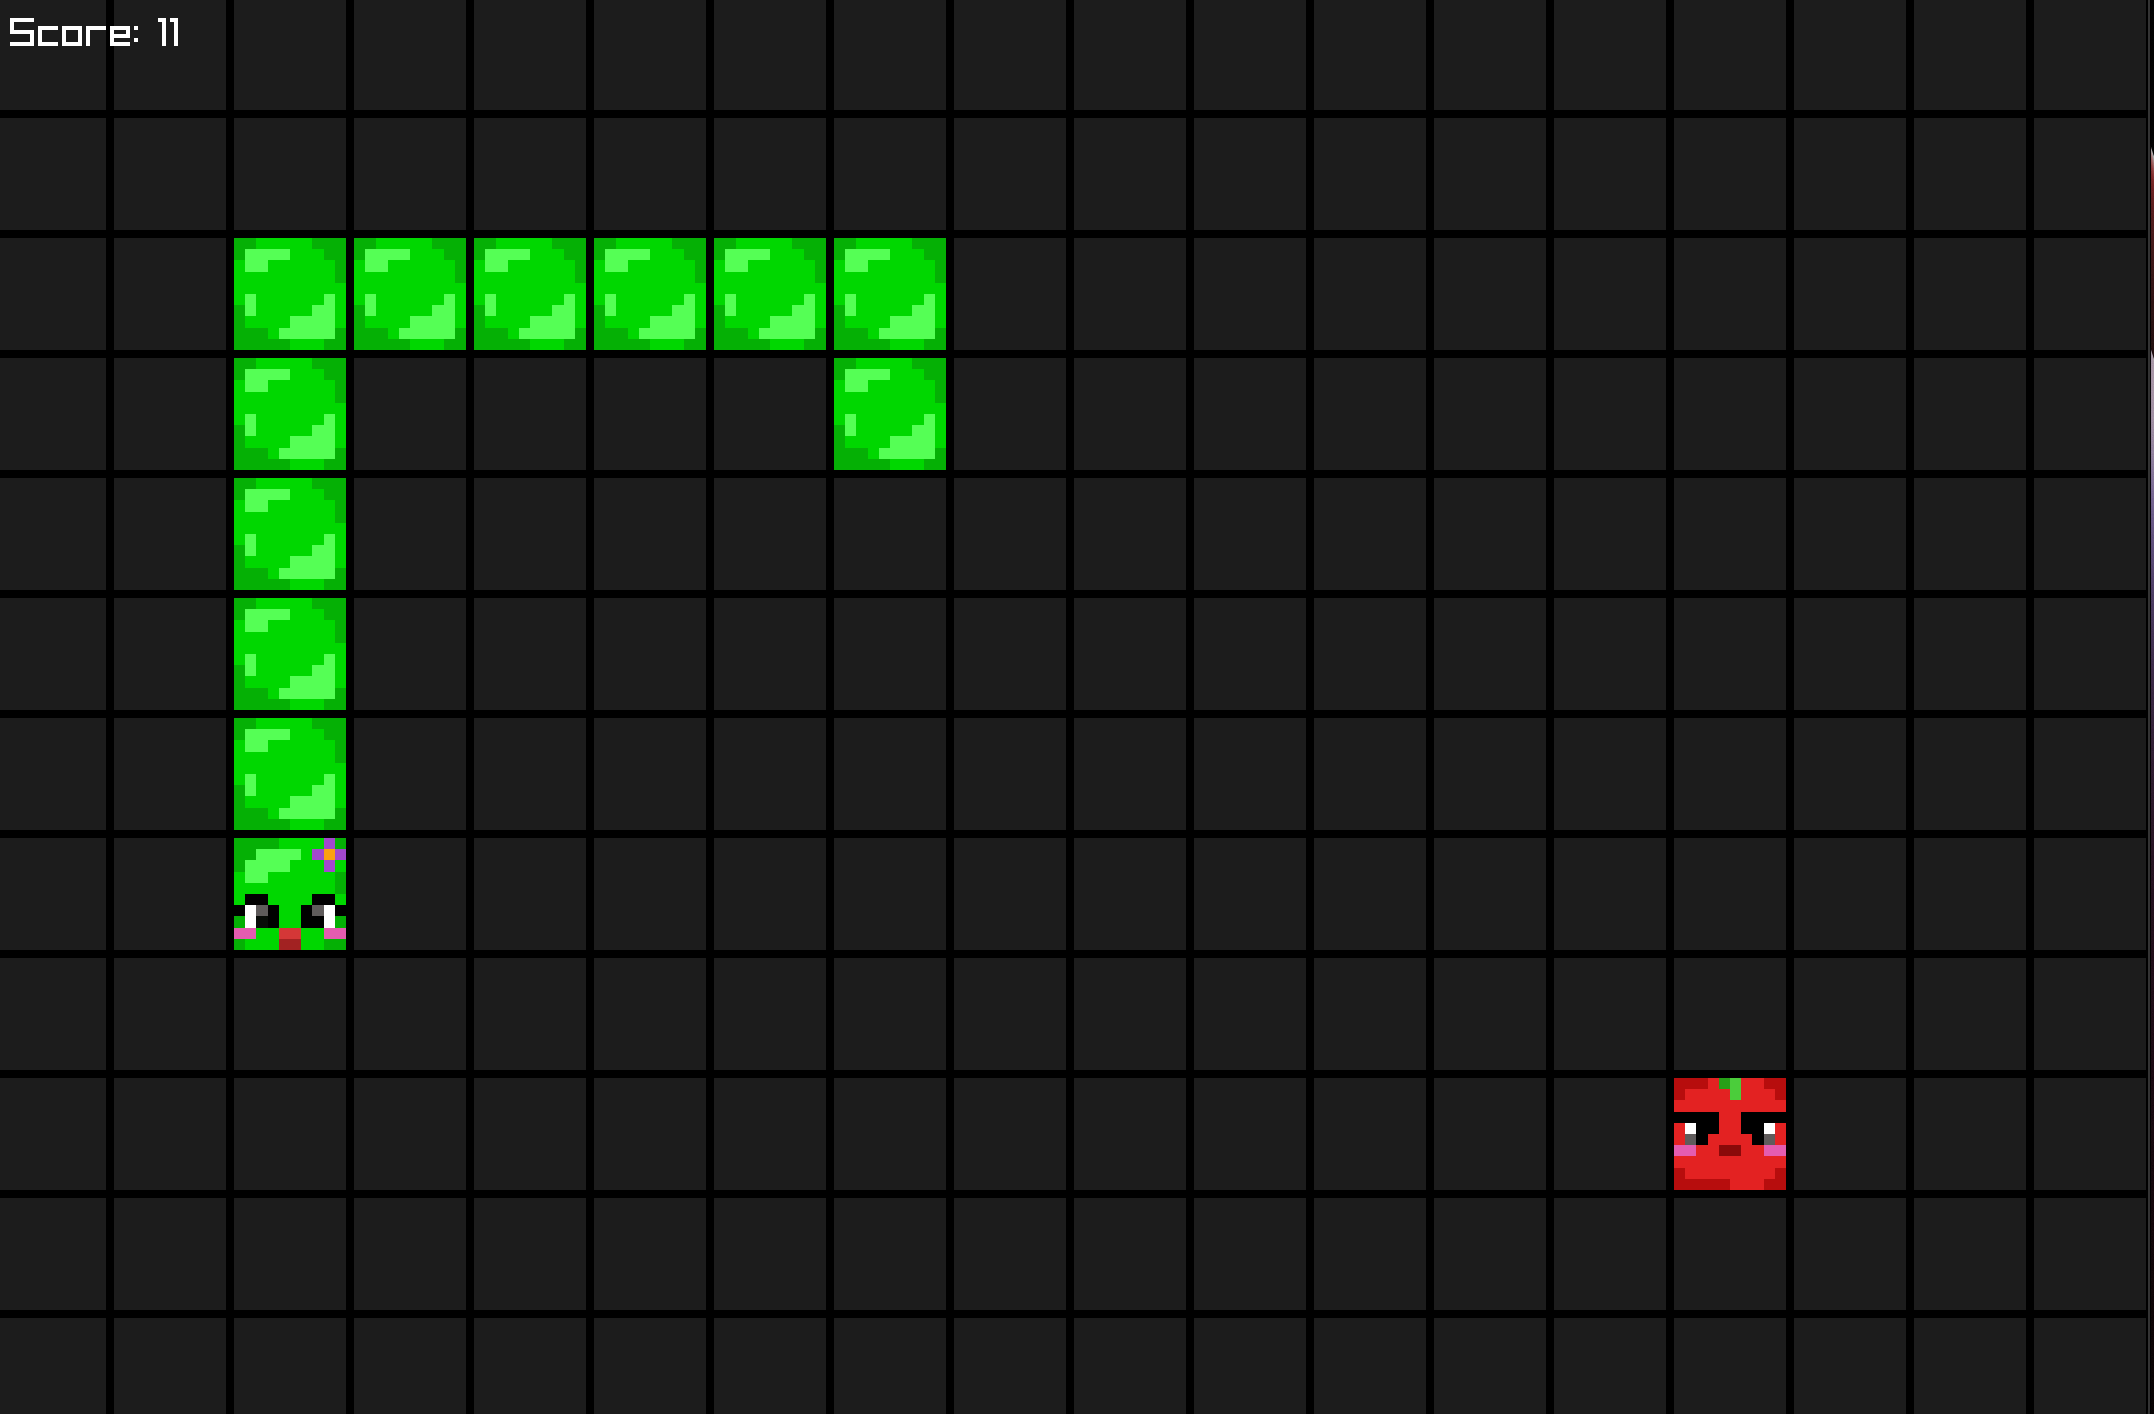
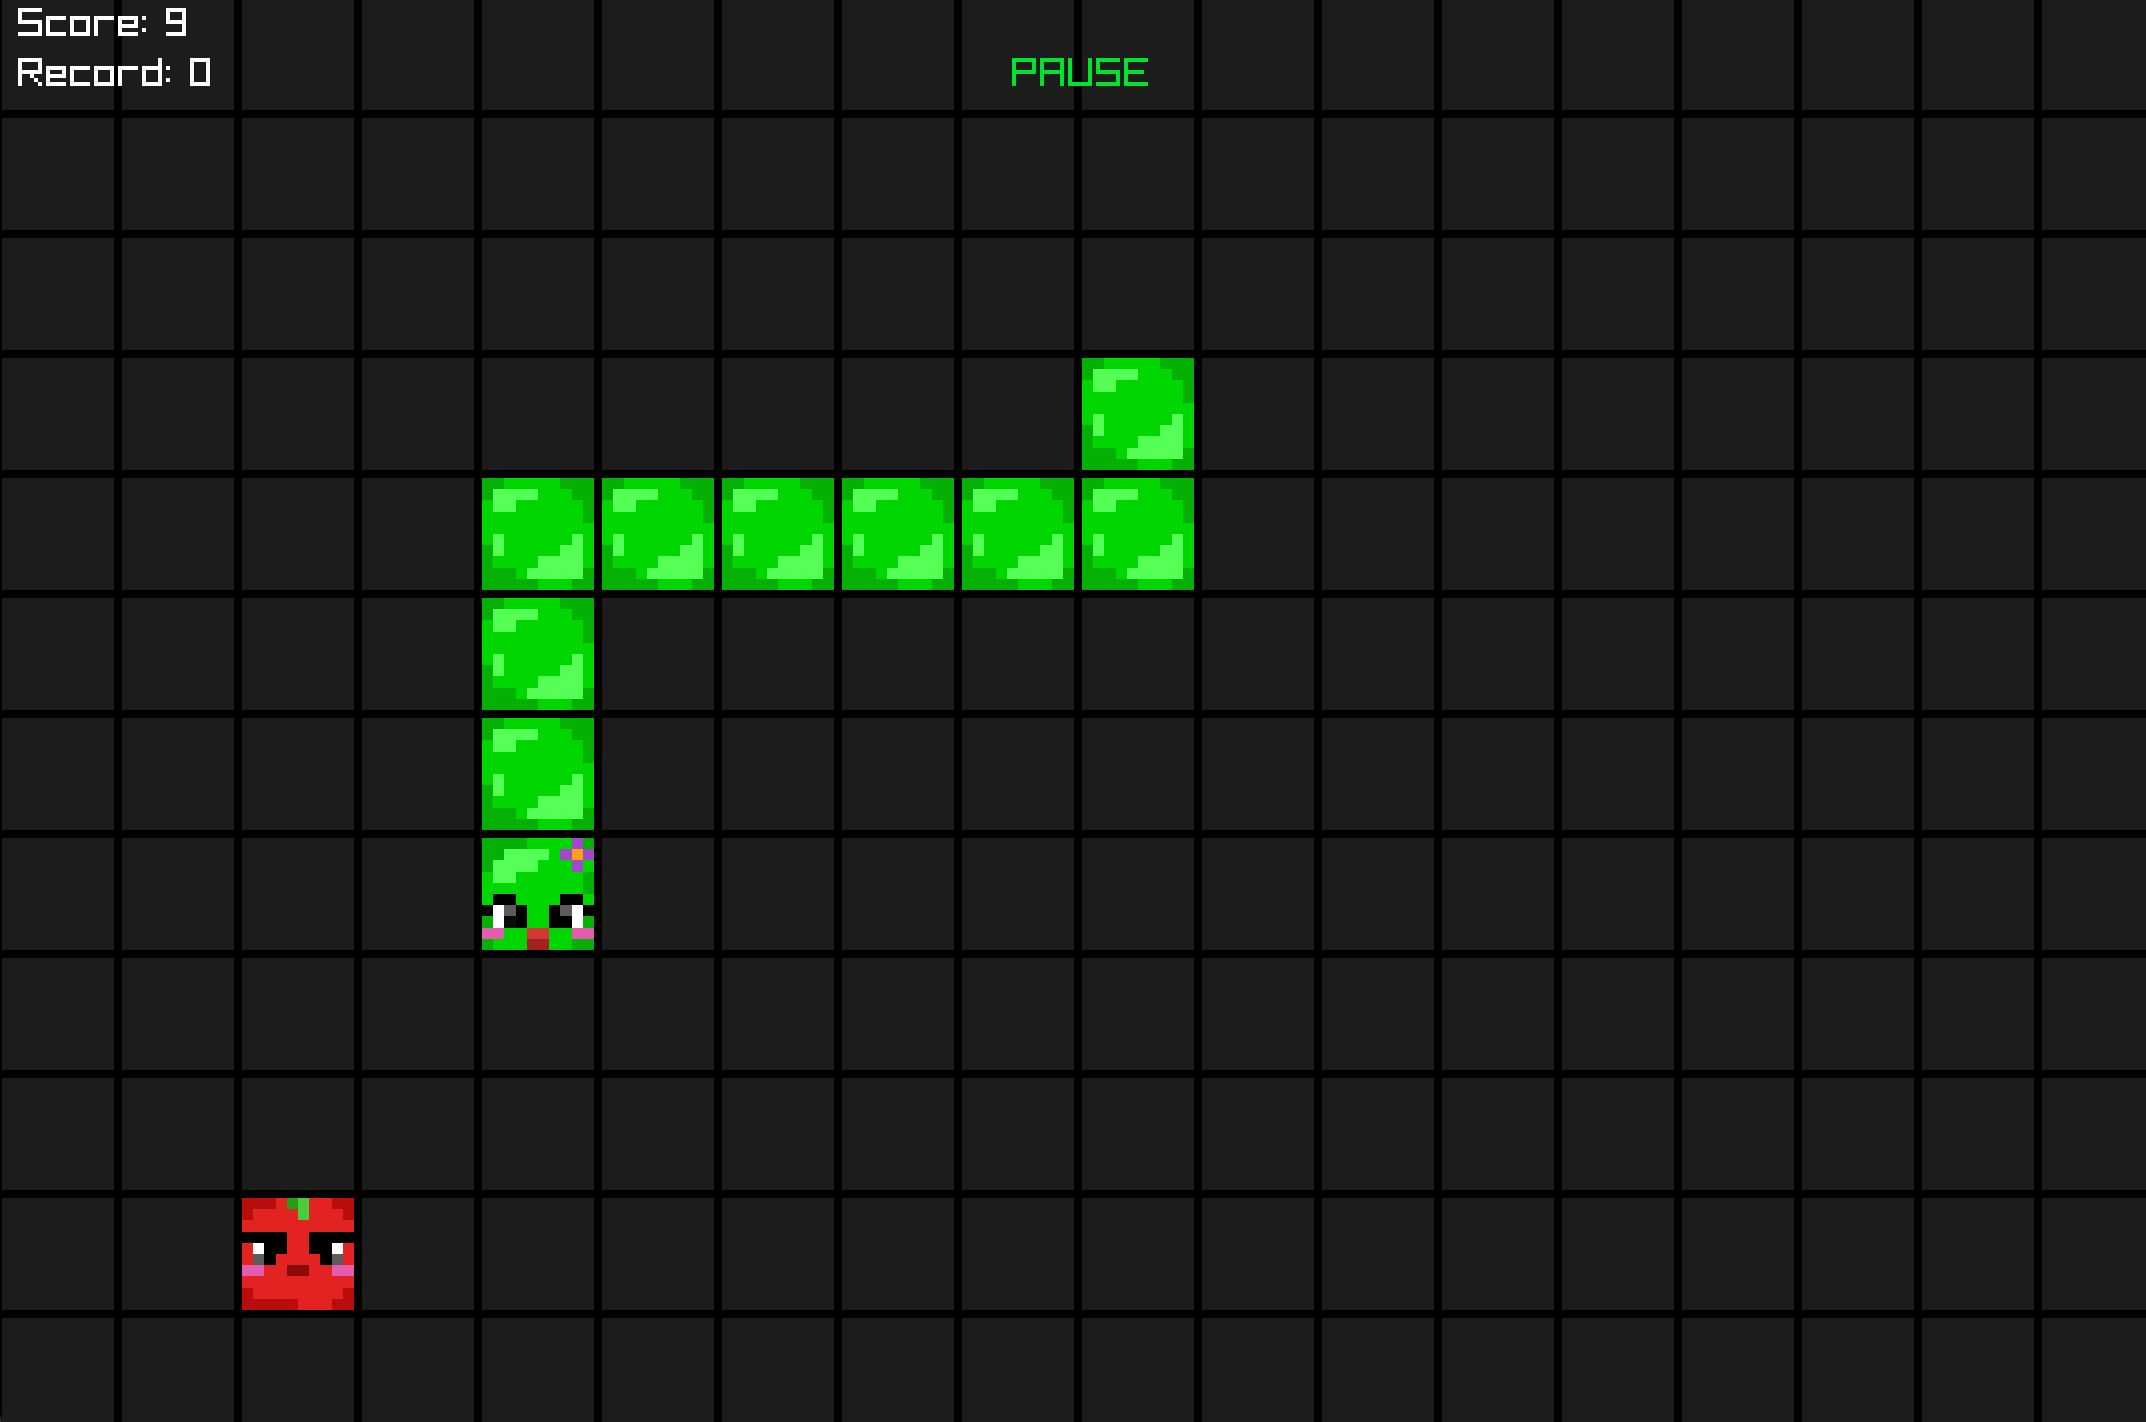
added record tracking

Changed region(s): [[0.0, 0.0, 1.0, 1.0], [0.9991, 0.0, 1.0, 0.2178], [0.9991, 0.9335, 1.0, 1.0]]

diff --git a/snake.c b/snake.c
@@ -36,6 +36,8 @@ int apple;
 int pause = 0;
 int auto_snake = 0;
 int score = 0;
+int record = 0;
+int flag = 0;
 
 enum CellType board[BOARD_WIDTH * BOARD_HEIGHT] = {0};
 struct Snake snake;
@@ -155,6 +157,10 @@ void snake_step(void){
         score++;
     }
     else if (check_collision(row, col)){
+        if (score > record){
+            record = score;
+            flag = 1;
+        }
         state = END;
     }
     else{
@@ -168,6 +174,7 @@ void snake_step(void){
 }
 
 void init(void){
+    flag = 0;
     srand(time(NULL));
     score = 0;
     generate_snake();
@@ -210,8 +217,14 @@ void update(void){
 }
 
 void render_game_over(void){
-    DrawText("GAME OVER", WIDTH / 2 - 150, HEIGHT / 2 - 25, 50, GetColor(0xffffffff));
-    DrawText("Press R to Restart", WIDTH / 2 - 250, HEIGHT / 2 + 25, 50, GetColor(0xffffffff));
+    DrawText("GAME OVER!", WIDTH / 2 - 223, HEIGHT / 2 - 120, 70, GetColor(0xffffffff));
+    DrawText("Press R to Restart", WIDTH / 2 - 253, HEIGHT / 2 - 50, 50, GetColor(0xffffffff));
+    if (flag){
+        DrawText("NEW RECORD!", WIDTH / 2 - 173, HEIGHT / 2 + 25, 50, GetColor(0xff5f00ff));
+        char buff[32];
+        sprintf(buff, "Record: %d", record);
+        DrawText(buff, 10, 30, 20, GetColor(0xffffffff));
+    }
 }
 
 void draw_head(void){
@@ -283,14 +296,18 @@ void render(void){
     draw_body();
     draw_apple();
     if (state == END){
-        render_game_over();
         draw_head();
+        render_game_over();
     }
     char buff[32];
     sprintf(buff, "Score: %d", score);
-    DrawText(buff, 10, 10, 20, GetColor(0xffffffff));
+    DrawText(buff, 10, 5, 20, GetColor(0xffffffff));
+    sprintf(buff, "Record: %d", record);
+    DrawText(buff, 10, 30, 20, GetColor(0xffffffff));
     if (auto_snake)
-        DrawText("AUTO", 10, 35, 20, GREEN);
+        DrawText("AUTO", 512, 5, 20, GREEN);
+    if (pause)
+        DrawText("PAUSE", 507, 30, 20, GREEN);   
     EndDrawing();
 }
 

diff --git a/README.md b/README.md
@@ -1,79 +1,96 @@
-# 🐍 Snake Game (C + Raylib)
+# Snake Game (C + Raylib)
 
-Простая, красочная и быстрая реализация классической игры **Snake** с графическим интерфейсом на **C** с использованием **[Raylib](https://www.raylib.com/)**. Игра поддерживает текстуры, автопилот (по циклу Гамильтона), паузу, управление клавишами и стартовый экран с инструкциями.
+В этом репозитории представлена простая, красочная и быстрая реализация классической игры **Snake** с графическим интерфейсом на **C** с использованием **[Raylib](https://www.raylib.com/)**. Игра поддерживает текстуры, паузу, ручное управление клавишами, стартовый экран с инструкциями и автоматический режим, использующий гамильтонов цикл.
 
-## 📚 Содержание
+## Содержание
 
-- [🐍 Snake Game (C + Raylib)](#-snake-game-c--raylib)
-  - [📚 Содержание](#-содержание)
-  - [📸 Скриншоты](#-скриншоты)
-    - [🖥 Стартовый экран с инструкцией](#-стартовый-экран-с-инструкцией)
-    - [🎮 Ручное управление](#-ручное-управление)
-    - [🤖 Автопилот по циклу Гамильтона](#-автопилот-по-циклу-гамильтона)
-    - [💀 Экран окончания игры](#-экран-окончания-игры)
-  - [🚀 Запуск](#-запуск)
-    - [✅ Зависимости](#-зависимости)
-    - [🔧 Сборка](#-сборка)
-    - [▶ Запуск](#-запуск)
-  - [🎮 Управление](#-управление)
-  - [🧠 Автопилот](#-автопилот)
-  - [🐍 Структура проекта](#-структура-проекта)
-  - [📦 Дополнительно](#-дополнительно)
-  - [🛠 TODO](#-todo)
-  - [🧑💻 Автор](#-автор)
-  
-## 📸 Скриншоты
-### 🖥 Стартовый экран с инструкцией
+- [Snake Game (C + Raylib)](#snake-game-c--raylib)
+  - [Содержание](#содержание)
+  - [Особенности](#особенности)
+  - [Скриншоты](#скриншоты)
+    - [Стартовый экран с инструкцией](#стартовый-экран-с-инструкцией)
+    - [Ручное управление](#ручное-управление)
+    - [Автопилот по циклу Гамильтона](#автопилот-по-циклу-гамильтона)
+    - [Экран окончания игры при достижении нового рекорда](#экран-окончания-игры-при-достижении-нового-рекорда)
+  - [Запуск](#запуск)
+    - [Зависимости](#зависимости)
+    - [Установка Raylib для Linux](#установка-raylib-для-linux)
+    - [Сборка](#сборка)
+    - [Запуск](#запуск-1)
+  - [Управление](#управление)
+  - [Автопилот](#автопилот)
+  - [Структура проекта](#структура-проекта)
+  - [Планы на будущее](#планы-на-будущее)
+  - [Автор](#автор)
+
+## Особенности
+- Графический интерфейс с текстурами
+- Управление клавишами **WASD** или **стрелками**
+- Автоматический режим движения змейки (`B`)
+- Пауза (`SPACE`)
+- Перезапуск (`R`)
+- Подсчёт очков и отображение **рекорда**
+- Надпись `NEW RECORD!` при достижении нового рекорда
+- Гамильтонов цикл для обхода поля в автоматическом режиме
+## Скриншоты
+### Стартовый экран с инструкцией
 ![screenshot](./screenshots/gameplay1.png)
-### 🎮 Ручное управление
+### Ручное управление
 ![screenshot](./screenshots/gameplay2.png)
-### 🤖 Автопилот по циклу Гамильтона
+### Автопилот по циклу Гамильтона
 ![screenshot](./screenshots/gameplay3.png)
-### 💀 Экран окончания игры
+### Экран окончания игры при достижении нового рекорда
 ![screenshot](./screenshots/gameplay4.png)
 
-## 🚀 Запуск
+## Запуск
 
-### ✅ Зависимости
+### Зависимости
 
 - [Raylib](https://github.com/raysan5/raylib)
 - GCC или Clang (например, `gcc`, `clang`)
 - macOS / Linux (текущая сборка настроена под macOS)
+###  Установка Raylib для Linux
 
-### 🔧 Сборка
+```bash
+sudo apt install libraylib-dev
+```
+Или, если Raylib не установлен глобально, можно использовать raylib как статическую библиотеку.
+### Сборка
 
-Создай исполняемый файл с помощью:
+Необходимо создать исполняемый файл с помощью:
 
 ```bash
 make
 ```
-Если make не установлен, можно собрать вручную:
+Если make не установлен, то можно собрать вручную:
 ```bash
 gcc snake.c -o snake \
   -lraylib -L. -lglfw3 \
   -framework Cocoa -framework IOKit -framework OpenGL
 ```
-### ▶ Запуск
+### Запуск
 ```bash
 ./snake
 ```
 
-## 🎮 Управление
+## Управление
 
-| Клавиша           | Действие                          |
-|-------------------|-----------------------------------|
-| `W A S D`         | Движение                          |
-| `← ↑ → ↓`         | Движение                          |
-| `SPACE`           | Пауза                             |
-| `R`               | Рестарт                           |
-| `B`               | Автопилот (вкл/выкл)              |
-| `ENTER`           | Начать игру со стартового экрана |
+| Клавиша     | Действие                          |
+|-------------|-----------------------------------|
+| `W` / `↑`   | Движение вверх                    |
+| `S` / `↓`   | Движение вниз                     |
+| `A` / `←`   | Движение влево                    |
+| `D` / `→`   | Движение вправо                   |
+| `SPACE`     | Пауза / продолжить                |
+| `R`         | Перезапуск игры                   |
+| `B`         | Включить / выключить автопилот    |
+| `ESC`       | Выход из игры                     |
 
-## 🧠 Автопилот
+## Автопилот
 
-Если нажать B, включается автоматический режим движения змеи по Гамильтоновому циклу (обход всей доски без самопересечений), который позволяет змее выживать максимально долго. Отличный способ наблюдать за алгоритмом в действии!
+При нажатии клавиши B включается автоматический режим движения змеи по Гамильтоновому циклу (обход всей доски без самопересечений), который позволяет змее выживать максимально долго. Это хороший способ наблюдать за алгоритмом в действии.
  
-## 🐍 Структура проекта
+## Структура проекта
 
 - **snake-game/**
   - **textures/** — папка с текстурами змеи и яблока
@@ -90,19 +107,15 @@ gcc snake.c -o snake \
   - `Makefile` — файл сборки проекта с флагами компиляции
   - `README.md` — описание и инструкция по запуску
 
-## 📦 Дополнительно
-	•	Использует DrawTextureEx для отрисовки текстур.
-	•	Поддержка паузы и экран “Game Over”.
-	•	Баллы (Score) отображаются в левом верхнем углу.
-	•	Стартовый экран с инструкцией.
 
-## 🛠 TODO
+
+## Планы на будущее
 	•	Звуки для еды и столкновения
 	•	Анимация смерти змеи
 	•	Оптимизация автопилота (расширение за рамки цикла)
 	•	Поддержка highscore
 	•	Добавить эффекты: мигание, вспышки и т.п.
 
-## 🧑💻 Автор
+## Автор
 
 Разработано на C с любовью к классике.
